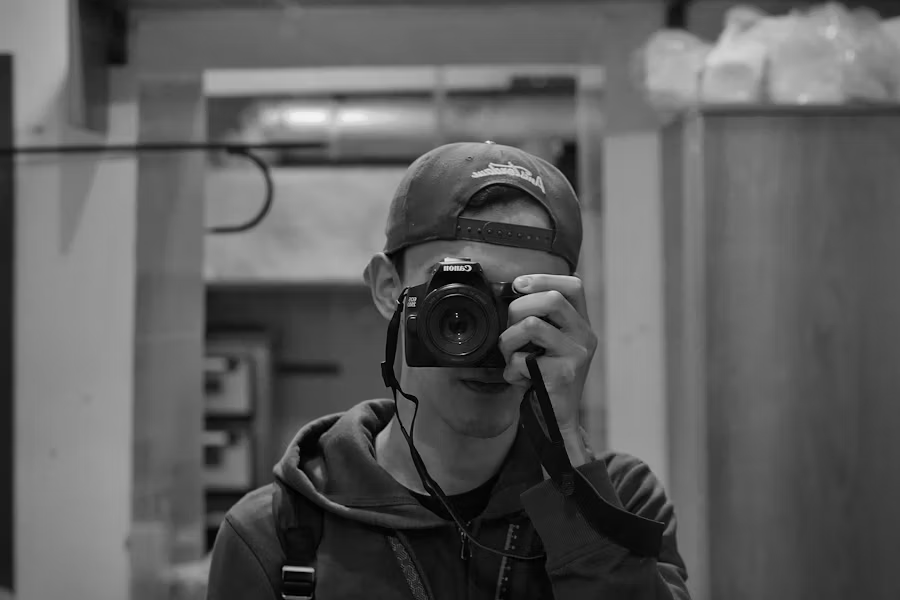
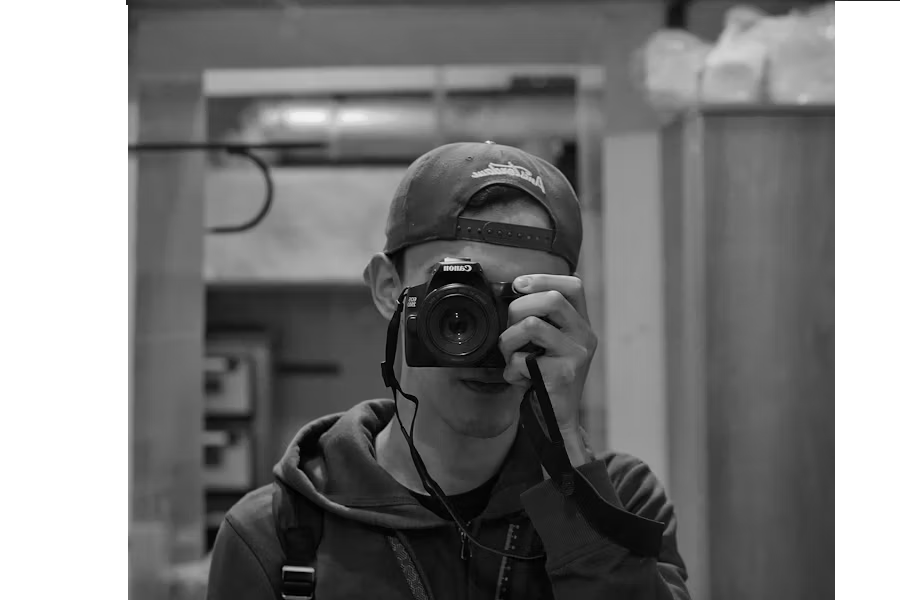
update quotes comp

Changed region(s): [[0.0, 0.0, 0.1556, 1.0], [0.9022, 0.0, 1.0, 1.0]]

diff --git a/src/components/Quotes/Quotes.css b/src/components/Quotes/Quotes.css
@@ -1,0 +1,32 @@
+.quote-card {
+  display: flex;
+  flex-direction: column;
+  align-items: center;
+  background-color: rgb(244, 238, 238);
+  border-radius: 20px;
+  height: 400px;
+  padding: 20px 5px;
+  flex-wrap: wrap;
+  justify-content: space-between;
+}
+
+.quote-top {
+  display: flex;
+  flex-direction: column;
+  gap: 10px;
+  font-size: 0.9rem;
+  text-align: center;
+  line-height: 1.5rem;
+}
+
+.quote-customer {
+  display: flex;
+  gap: 20px;
+}
+
+.quote-customer img {
+  width: 100%;
+  height: 40px;
+  object-fit: fill;
+  border-radius: 100%;
+}

diff --git a/src/components/Quotes/Quotes.jsx b/src/components/Quotes/Quotes.jsx
@@ -9,10 +9,8 @@ export function Quotes({ customer }) {
         <p>{customer.quote}</p>
       </div>
       <div className="quote-customer">
-        <span>
-          <img src={customer.avatar} />
-          <p>{customer.customer}</p>
-        </span>
+        <img src={customer.avatar} />
+        <p>{customer.customer}</p>
       </div>
     </div>
   );

diff --git a/src/pages/CustomerQuotes.jsx b/src/pages/CustomerQuotes.jsx
@@ -6,7 +6,7 @@ const CUSTOMERS = [
   {
     quote:
       "MowPro transformed my lawn! The service was quick, professional, and the results were beyond my expectations. Highly recommend!",
-    avatar: "/customers/john-smith.png",
+    avatar: "/customers/john-smith2.png",
     customer: "John Smith",
   },
   {

diff --git a/src/pages/CustomerQuotes.css b/src/pages/CustomerQuotes.css
@@ -3,4 +3,12 @@
   color: white;
   padding: 20px;
   font-family: "Noto Sans", serif;
+  display: flex;
+  flex-direction: column;
+}
+
+.quotes-container {
+  display: flex;
+  color: black;
+  gap: 30px;
 }
